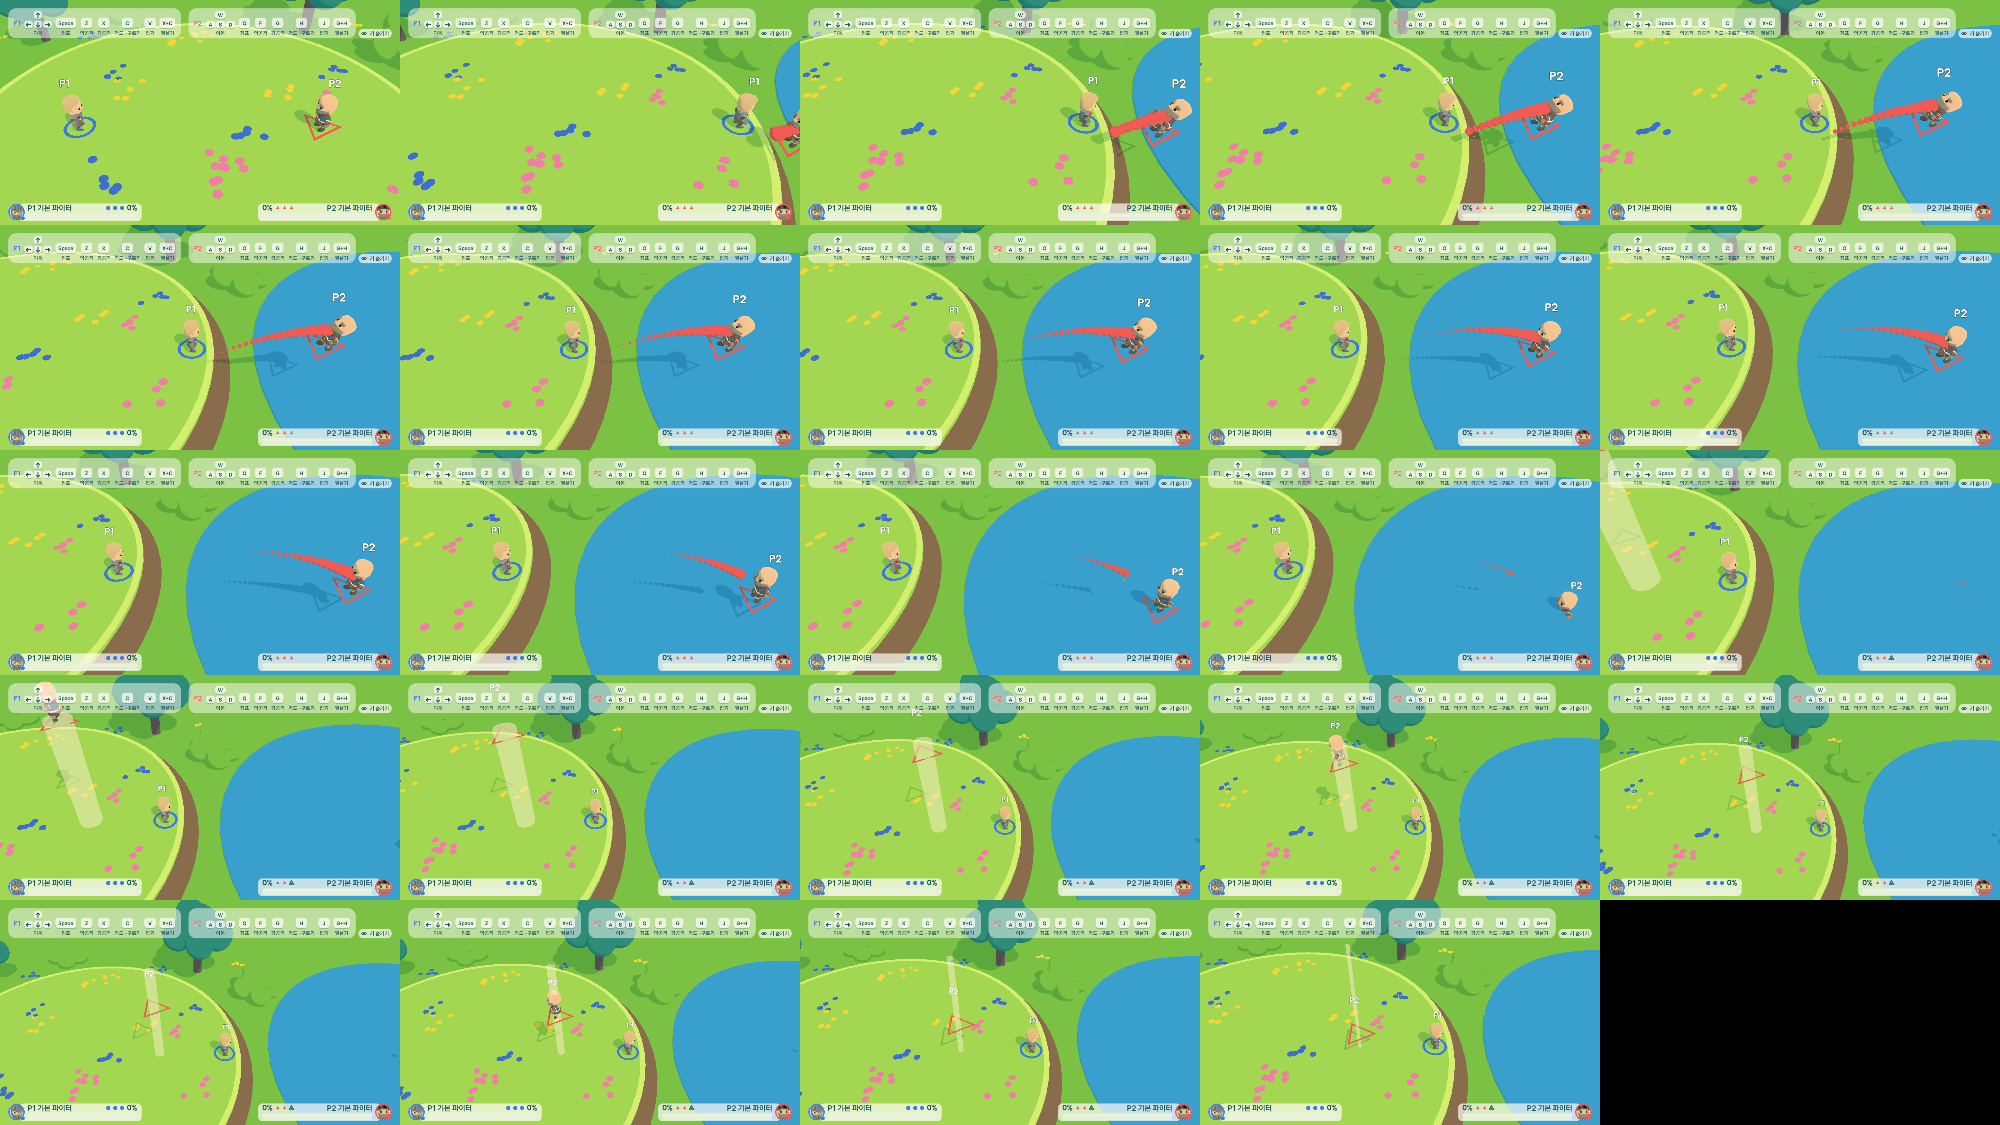
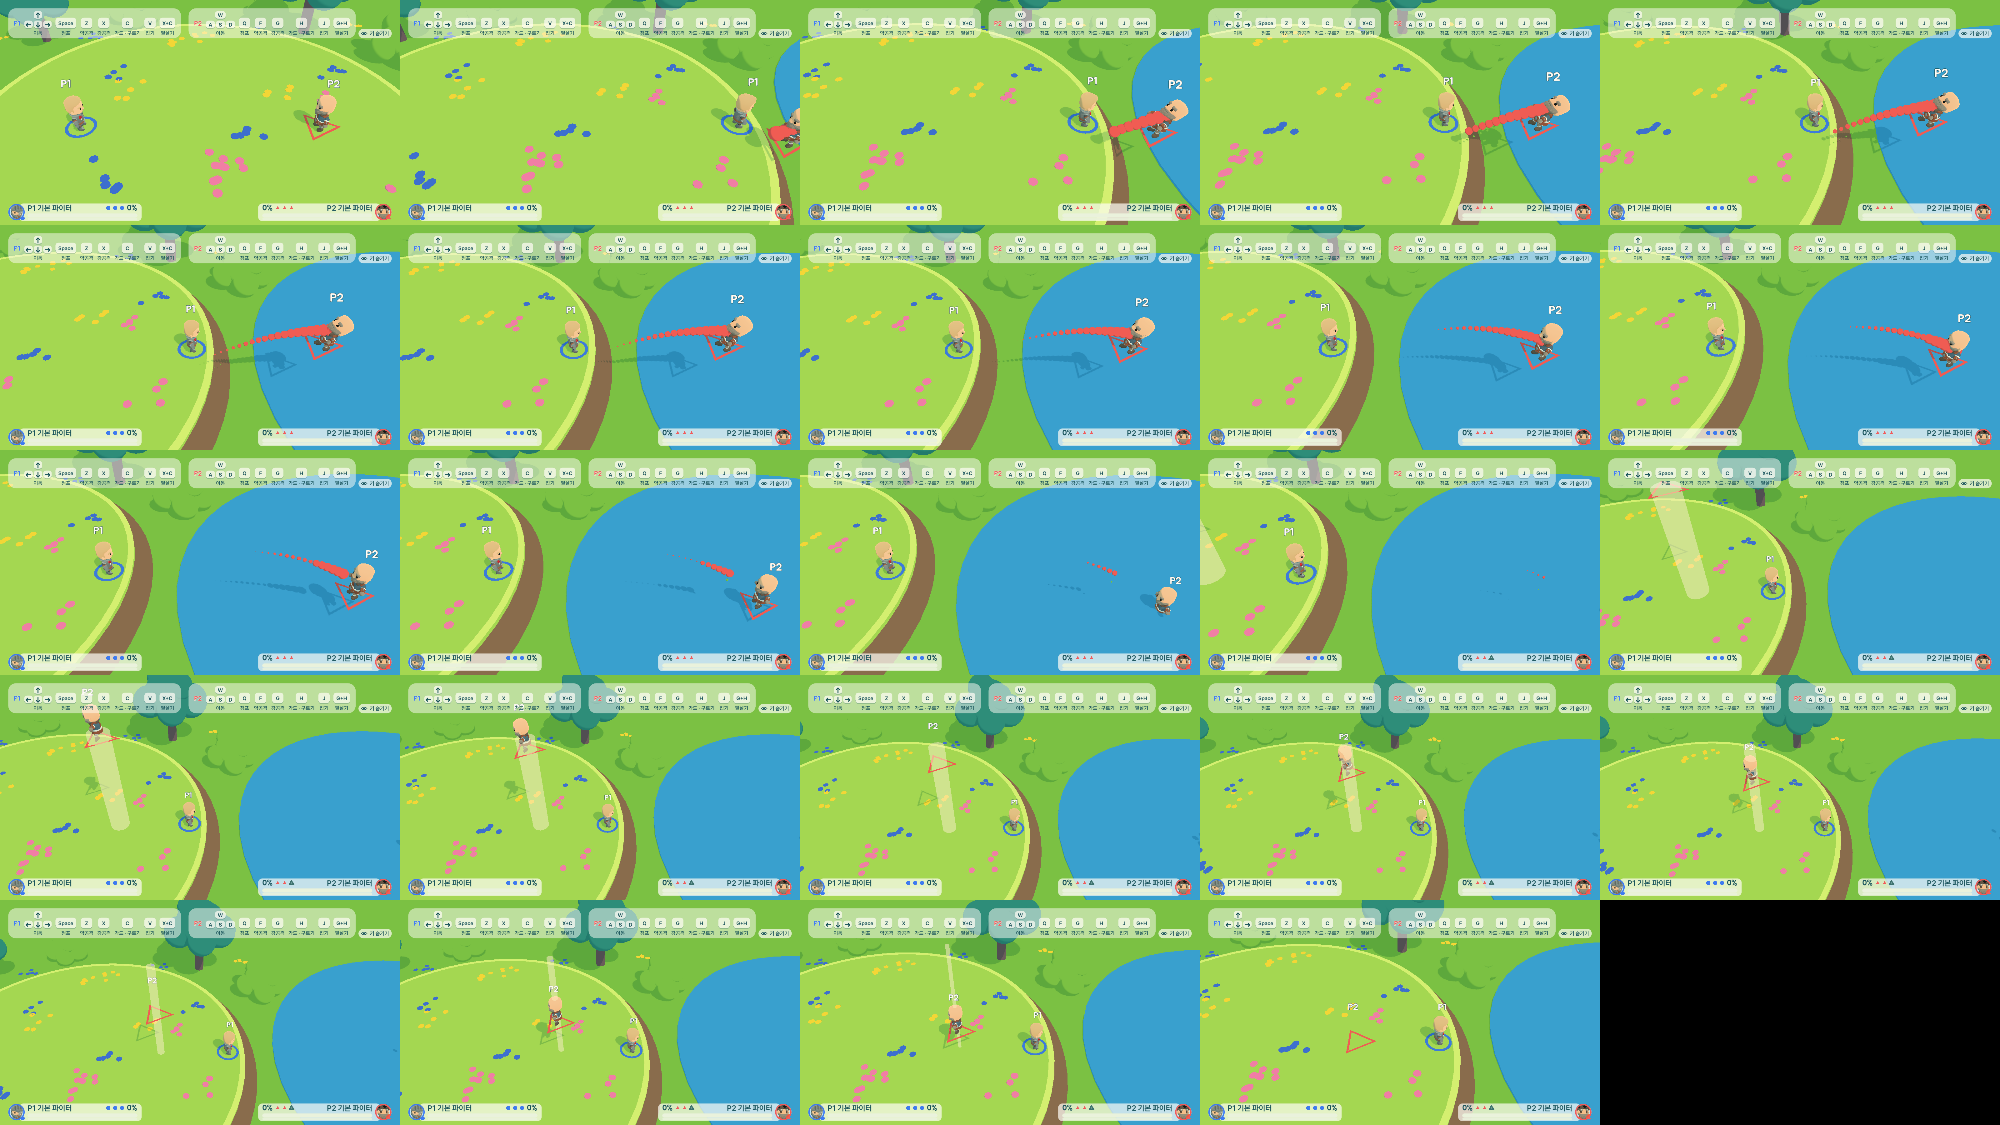
fix: falling off the arena rings out at the meadow with a real fall pose
The ring-out sat at kill_y -8 while the meadow is drawn at -1, so a body
fell upright in its jump pose, sank 7 m through the ground and only then
burst (0.5 s late). kill_y is now -2: under the meadow and past the deepest
jump recovery (1.8 m), so no recovery is lost (no fighter ever rose below
-2 in 12 baseline bot matches).

- OffstageFall / FallPose: a body past the floor lip tips forward over the
  edge (back when knocked off) and flails, held on the meadow surface;
  only the model rotation is written, hitstop freezes it
- ring-out splash: white foam and a spreading ripple (blue drops vanished
  on the water)
- golden replay hashes re-recorded and bot coverage seed 23 -> 30 for the
  kill_y change; scripts/capture_ringout.gd evidence

diff --git a/dev/active/arena-ringout/arena-ringout-tasks.md b/dev/active/arena-ringout/arena-ringout-tasks.md
@@ -1,7 +1,9 @@
-- [x] worktree + evidence capture (before)
-- [ ] A1 kill_y -2 + tests
-- [ ] A2 fall pose (Anim.FALL) + tests
-- [ ] A3 after capture
-- [ ] B frozen pond (subagent, worktree) -> merge
-- [ ] test.sh + check-all + code review
+- [x] worktree + evidence capture (before: evidence/before-classic-*.png)
+- [x] A1 kill_y -2 + tests (golden hashes re-recorded, bot coverage seed 23 -> 30)
+- [x] A2 fall pose (OffstageFall + FallPose, rotation only) + meadow hold + tests
+- [x] A2b splash foam + ripple (blue drops vanished on water)
+- [x] A3 after capture (evidence/ringout-classic-*.png)
+- [x] test.sh 1562/1562, check-all OK
+- [x] code review (APPROVE) -> fixes -> commit
+- [ ] B frozen pond (subagent, worktree ../frozen-pond, branch feat/frozen-pond) -> merge here
 - [ ] ask user: merge to main / deploy

diff --git a/dev/active/arena-ringout/arena-ringout-context.md b/dev/active/arena-ringout/arena-ringout-context.md
@@ -9,3 +9,8 @@ Last Updated: 2026-10-07
   tumble_spin.gd, fighter_view.gd animate(). Do NOT edit character_model.gd here; expect a small merge in
   fighter_view.gd / character_animator.gd.
 - Decision: kill_y -2 (root cause = ring-out happens 7 m under the visible ground)
+- Finding: bot-vs-bot matches end ~1/3 sooner with kill_y -2 (same ring-out count, less time). No recovery
+  is lost: in 12 baseline bot matches no fighter ever moved upward below y=-2. Cause of the pacing shift not
+  pinned down (chaotic bot matches); human matches only lose the 0.4 s of doomed fall.
+- FallPose writes CharacterModel.rotation only (HitReaction owns its position/scale; polish-pass tumble
+  turns the glb root inside it). The classic decor lake (-0.95) is held at -1 for ~7 frames before the splash.

diff --git a/docs/PRD.md b/docs/PRD.md
@@ -172,7 +172,7 @@ hitstun   = knockback * config.hitstun_factor   (초)
 | jump_velocity | 9 m/s |
 | gravity | -25 m/s² |
 | arena_radius | 10 m |
-| kill_y | -8 m |
+| kill_y | -2 m (초원 바로 아래, 점프로 복귀 가능한 깊이 1.8 m보다 깊게) |
 | 약공격 대미지 / base_knockback / scaling | 4% / 3 / 0.05 |
 | 강공격 대미지 / base_knockback / scaling | 12% / 6 / 0.12 |
 | 강공격 최대 차지 배율 | 1.6 (1초 차지) |
